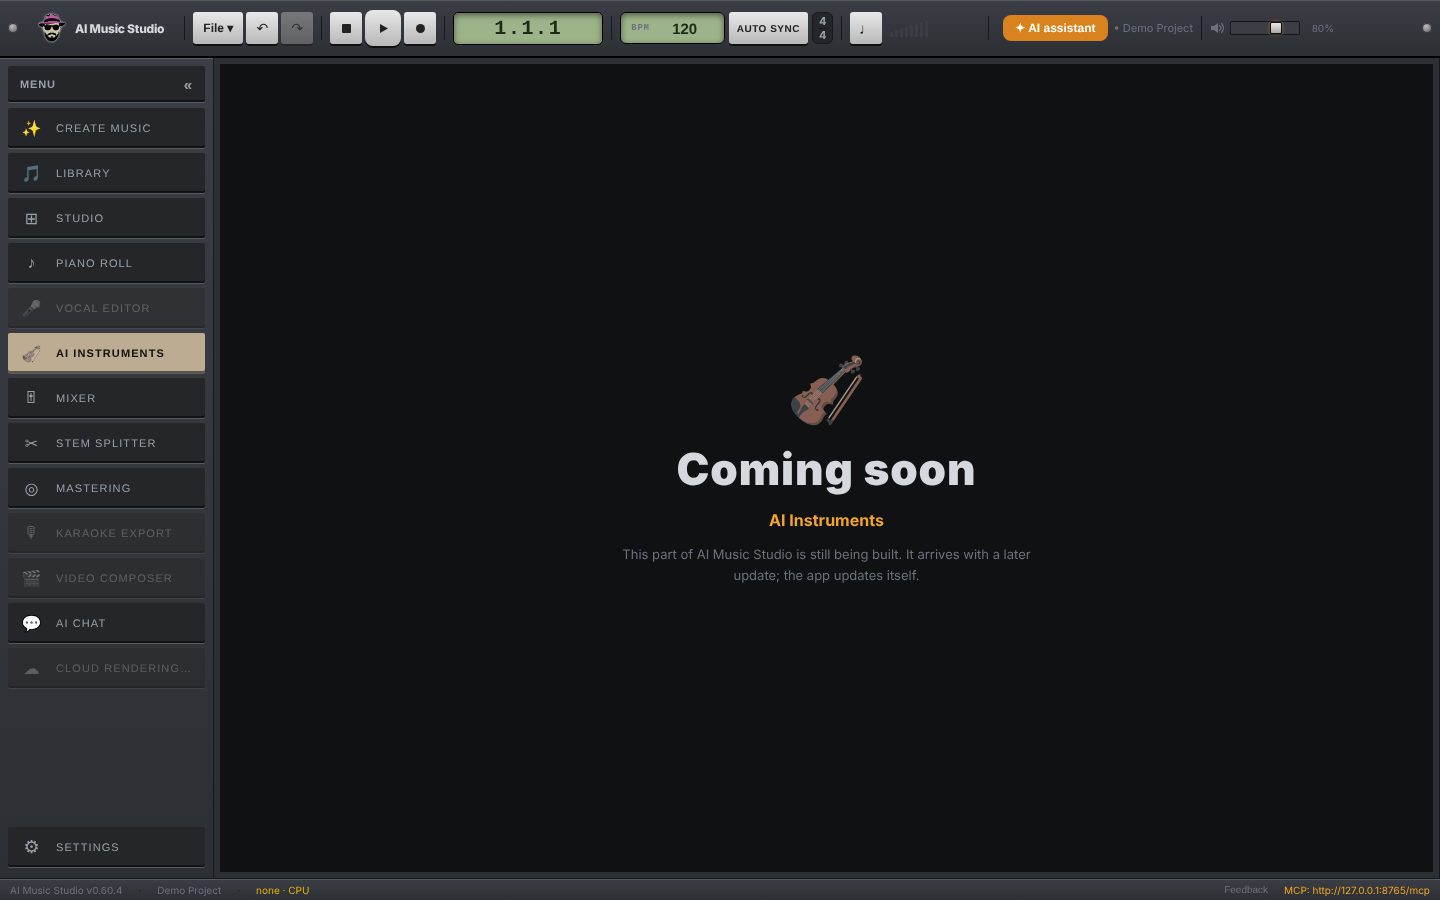
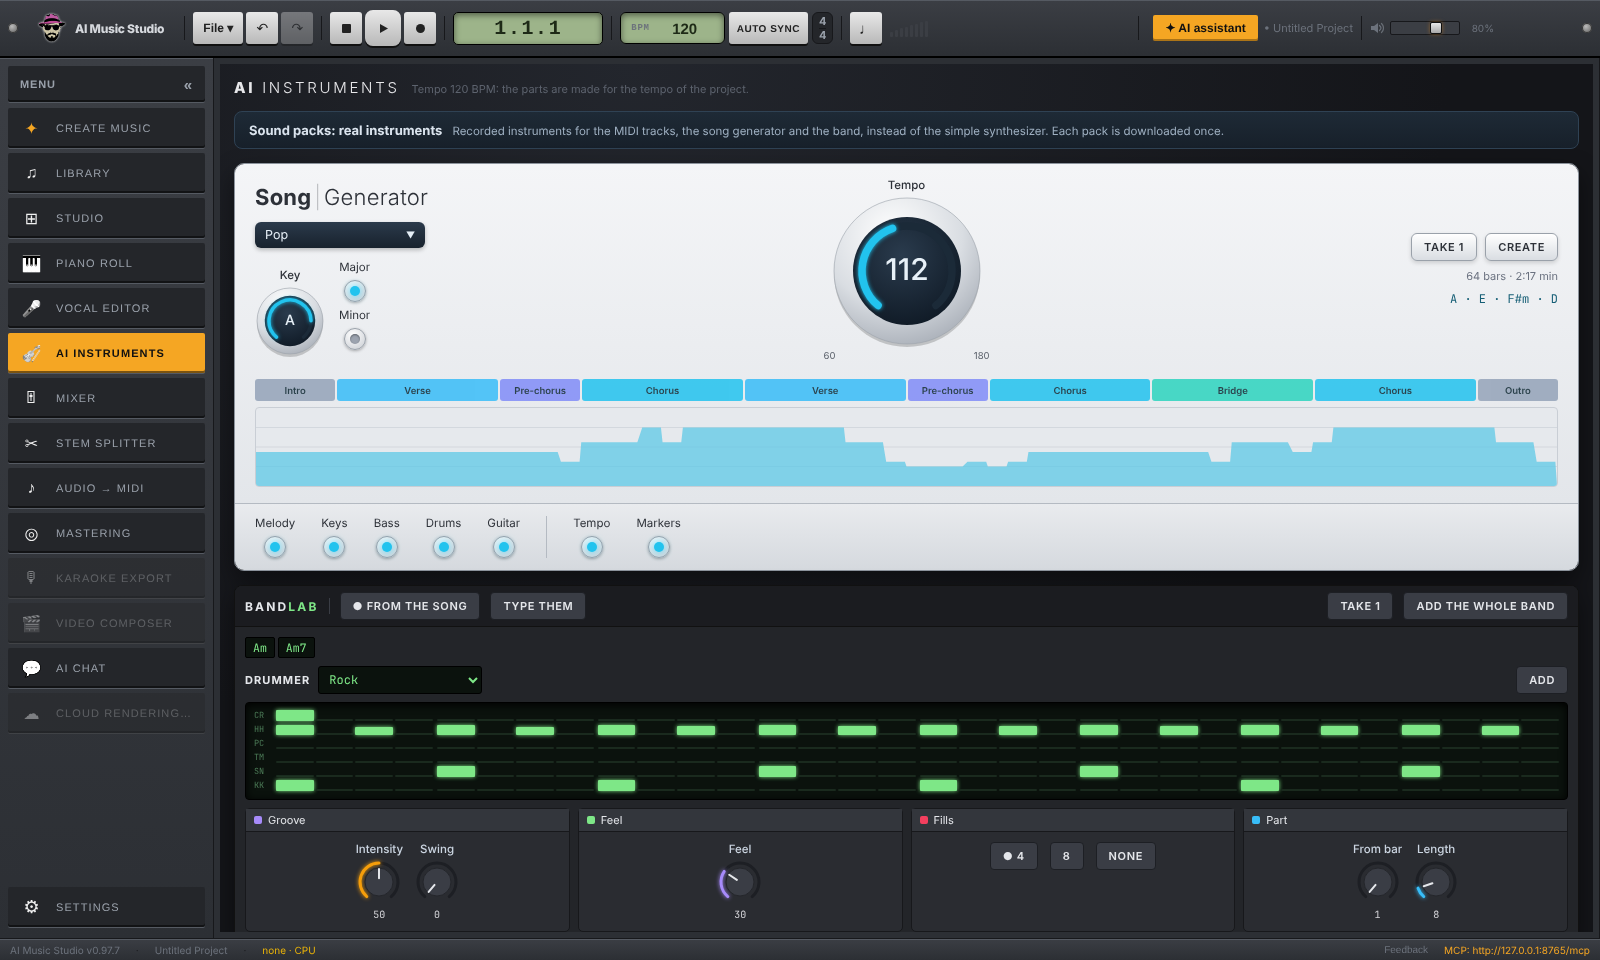
Screenshots in the rack look: album mastering, setup assistant, Vocal Editor, Studio tools, AI Instruments
Claude-Session: https://claude.ai/code/session_013zCgTr6dt9d3xsck6W1V2X

diff --git a/README.md b/README.md
@@ -85,6 +85,18 @@ A full arrangement studio in the app, with the shortcuts of **Ableton Live 12** 
 <img src="docs/screenshots/studio.png" alt="Studio in the Hardware rack look" width="100%">
 **The same Studio in the Hardware rack look** – the selected track's effects (EQ, compressor, reverb) as rack modules with knobs at the right.
 
+<img src="docs/screenshots/studio-tools.png" alt="Studio tools" width="100%">
+**Studio tools** – pointer, scissors (click to cut, drag to cut out a range over several tracks) and the grid magnet; zoom up to 16× with a magnetic grid for lining up beats.
+
+<img src="docs/screenshots/vocal-editor.png" alt="Vocal Editor" width="100%">
+**Vocal Editor** – 39 built-in voices with names sing your MIDI melody and lyrics; click a voice to hear it, hear it in every style (Pop, Rock, Ballad, Soul) and pick the style, whose way of singing and effects go onto the new vocal track. Rap by the AI singer.
+
+<img src="docs/screenshots/album-mastering.png" alt="Album mastering" width="100%">
+**Album mastering** – the songs of an album on one timeline with their waveforms: measure, even out loudness and tone, hear the transitions and export everything at once.
+
+<img src="docs/screenshots/setup-assistant.png" alt="Setup assistant" width="100%">
+**Setup assistant** – on the first start: checks the computer, offers *Recommended*, *Everything* or *Studio only*, and installs with one click (it sets up its own Python if needed).
+
 <img src="docs/screenshots/create-studio.png" alt="Create music" width="100%">
 **Create music** – describe the style, write lyrics, pick a model and make a song or a seamless loop (1–16 bars). Simple and Studio mode.
 
@@ -118,7 +130,7 @@ A full arrangement studio in the app, with the shortcuts of **Ableton Live 12** 
 | | |
 |---|---|
 | <img src="docs/screenshots/piano-roll.png" alt="Piano Roll" width="100%"><br>**Piano Roll** – draw, move and quantize MIDI notes | <img src="docs/screenshots/mixer.png" alt="Mixer" width="100%"><br>**Mixer** – faders, pan, mute/solo, level meters, master |
-| <img src="docs/screenshots/vocal-editor.png" alt="Vocal Editor" width="100%"><br>**Vocal Editor** – voices and lyrics for AI singing (coming soon) | <img src="docs/screenshots/instruments.png" alt="AI Instruments" width="100%"><br>**AI Instruments** – instruments for MIDI tracks (coming soon) |
+| <img src="docs/screenshots/instruments.png" alt="AI Instruments" width="100%"><br>**AI Instruments** – song generator, band and orchestral AI instruments for MIDI tracks (click one to hear it) | <img src="docs/screenshots/mixer.png" alt="Mixer" width="100%"><br>**Mixer** – SSL-style channel strips |
 | <img src="docs/screenshots/stem-splitter.png" alt="Stem Splitter" width="100%"><br>**Stem Splitter** – vocals, drums, bass and more with Demucs | <img src="docs/screenshots/mastering-chain.png" alt="Mastering chain" width="100%"><br>**Mastering chain** – EQ, compressor, multiband, stereo, limiter with loudness target, master gain fader |
 | <img src="docs/screenshots/karaoke.png" alt="Karaoke Export" width="100%"><br>**Karaoke Export** – word timing, .lrc and lyric videos (coming soon) | <img src="docs/screenshots/video-composer.png" alt="Video Composer" width="100%"><br>**Video Composer** – music that follows the cuts of a video (coming soon) |
 | <img src="docs/screenshots/ai-chat.png" alt="AI Chat" width="100%"><br>**AI Chat** – Claude, ChatGPT, Gemini, Grok or a local model as a music assistant that can also make songs | <img src="docs/screenshots/settings-ai-engines.png" alt="Settings → AI Engines" width="100%"><br>**Settings → AI Engines** – install the local AI models with one click |
